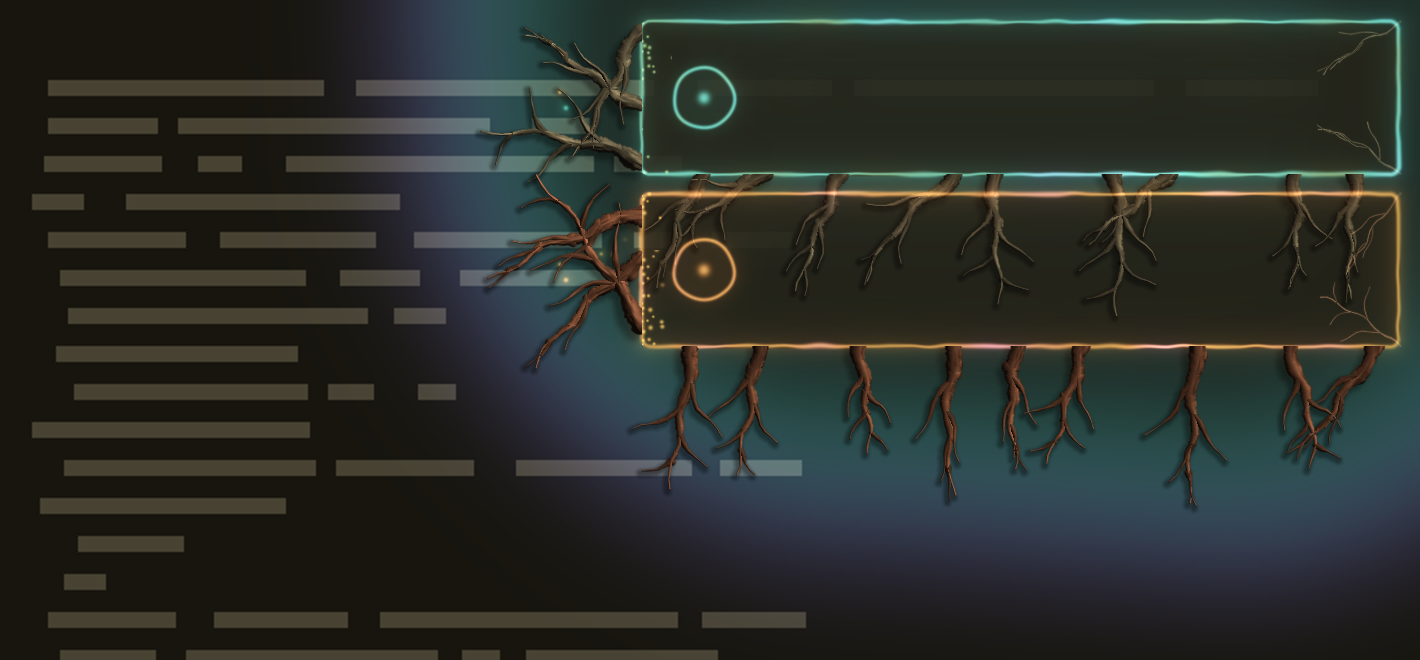
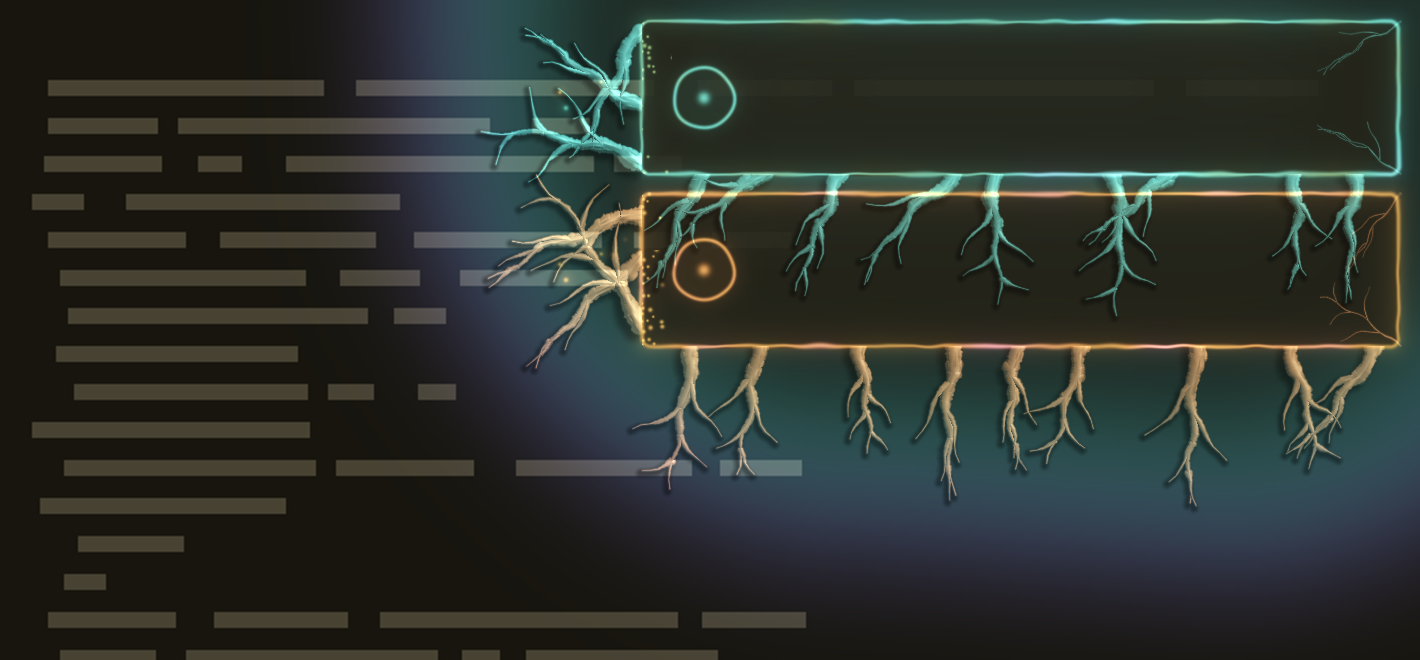
Growth: realistic texture and shape, but the roots glow again
The user liked the rough edge, grain, knots, droop and acute branching but wanted the roots to still be the glow. They are light again
(the toast's own colour, added, like the rim; output alpha is only the shadow), keeping all of the texture and shape work, with a more matte,
broader highlight that is less white so amber stays amber on a critical toast. Render only.

Claude-Session: https://claude.ai/code/session_01RawmEkvnbUV4A7X3Nfo38z

diff --git a/AGENTS.md b/AGENTS.md
@@ -314,14 +314,13 @@ has **alpha > 0 for the shadow only** (premultiplied: light in rgb, darkening in
 check and its countdown checks are stale, and the roots test's thresholds are untested on thicker roots.** Committed without running the tests
 at the user's request; fix them before releasing. The root radius is `(0.60 + 0.16 * scale) * thick` px at the base: `thick` is 5 for the roots (the user asked in steps: a little thicker, "at least twice as thick", "three times thicker now", read as three times the current, then, from a screenshot of the real shell, "a little thinner than that" and "more tapered") and 1 for the faint veins inside the card; the taper is `taper()`, a concave curve to 10% of the base, and the shoots start at 50% of the trunk's radius. **Look at the user's screenshots of the real shell, not only at the preview: the preview made the straight taper look fine and the screenshot showed stubby branches.** Roots are one per 24 px of the card's height on the left (3 to 6) and one per 40 px of its width below (4 to 14); `Tube` is a struct with a `key` (distance from the axis in radii) so overlapping pieces are shaded by the nearer-the-middle one; the shadow offset grows with the radius.
 
-**Realistic roots, branch `p2/growth-roots-real` (2026-10-31):** after the tapered tubes the user said they were "still not feeling it, they need to be
-more realistic". What read as unreal was the material, not the shape: glossy, smooth, glowing teal plastic. Changes in `toastgrowth.frag`: roots are drawn
-**opaque** in a bark colour (alpha = cover, rgb premultiplied, not added light: the tone-mapped additive light is mixed under them with
-`rgb*(1-cover) + rootRgb*cover`), with `tube()` taking an arc length and a per-root seed for a rough edge, fibre grain and mottling; `knob()` (necks and
-knots), `turn()` (heading: sine waves + jitter + a pull towards hanging down), acute shoots, swellings at shoot origins, paler tips. **Output alpha is now
-the roots' cover, so any test that assumes alpha is only a faint shadow, or that the roots are added light, is stale** (and the old countdown checks, and
-the roots thresholds, are still untested on this version). Lesson: when "realistic" is the ask, change the material and the irregularity
-before the geometry; added light can never look like a solid dark object.
+**Realistic roots (2026-10-31, branches `p2/growth-roots-real` then `p2/growth-roots-glow`):** after the tapered tubes the user said they were "still not feeling it, they
+need to be more realistic". I changed the material too (opaque bark-coloured roots, alpha = cover) and the user replied "it's fine to be more textured and shaped
+realistically but they should still be the glow". **The glow stayed the identity; texture and shape are what was wanted.** Final state in `toastgrowth.frag`: roots are
+added light in the toast's colour again (output alpha is only the shadow), with `tube()` taking an arc length and a per-root seed for a rough edge, fibre grain and
+mottling, plus `knob()` (necks and knots), `turn()` (heading: sine waves + jitter + a pull towards hanging down), acute shoots (0.62 rad) and swellings at shoot origins.
+The tests for the countdown line and the roots thresholds are still stale/untested on this version (the zero-alpha check is correct again). Lesson: a request for
+"realistic" is not a request to change the look's identity: change form and texture first, and keep the colour and the glow unless told otherwise.
 
 ## Conventions
 

diff --git a/docs/design/README.md b/docs/design/README.md
@@ -93,7 +93,13 @@ mock-up C, whose wavy outline and ragged strip read as glitches:
   settled on a trunk of 65% exponential (rate 3.5) and 35% gentle ease-out, with shoots starting from 16% of the life in steps of 16% and
   a more linear ease (power 1.5): gains of 34, 25, 13, 11, 8, 6 and 2 points per second (cumulative 34, 59, 72, 83, 91, 97 and 100).
   Fainter veins grow across the card from its right corners.
-  **Roots as solid, realistic bark** (the last step; the earlier tube look is described next): *"more realistic"* meant matte, uneven and earth-coloured, not glowing teal plastic. Each root is now drawn **opaque, in a real bark colour** (brown; rust for a critical toast, olive for a low one; a little of the toast's own colour mixed in) over what is behind it, instead of as added light, because added brown over a bright wallpaper cannot look brown. On top of the tube shading: a **rough edge** (the radius varies by noise along the length), **lengthwise grain** and **mottling** (noise that also tilts the surface's normal), **knots and necks** (a radius modulation that is continuous from step to step) and a thickening where a shoot leaves, a **less regular path** (heading jitter, and a pull towards hanging straight down, so roots droop), shoots at **acute angles** (about 35 degrees, not 50), a faint sheen only, and young tips paler rather than dimmer.
+  **Realistic texture and shape, still glowing** (the last step): "more realistic" was tried first as solid bark-coloured roots, drawn opaque over what is behind them; the user liked the
+  texture and shape but said they "should still be the glow", so the roots are light again (the toast's own colour, added, like the rim), keeping what made them
+  realistic: a **rough edge** (the radius varies by noise along the length), **lengthwise grain** and **mottling** (noise that also tilts the surface's normal, so
+  the glow varies along and across them), **knots and necks** (a radius modulation that is continuous from step to step) and a thickening where a shoot leaves, a
+  **less regular path** (heading jitter, and a pull towards hanging straight down, so roots droop), shoots at **acute angles** (about 35 degrees, not 50), and a
+  more matte, broader highlight. (Lesson: a request for realism is not a request to change the look's identity; ask which of material and form is meant if it
+  is not clear, or keep the identity and change the form first.)
   **Roots as lit 3D tubes** (after 0.5.0, `growth-roots-3d.png`): each segment is a round tube with a soft edge, five times as thick as the
   first lines at the base (asked for in steps: a little thicker, "at least twice as thick", "three times thicker now", then, from a screenshot of
   the real shell, "a little thinner than that" and "more tapered"; radius about 4.1 to 4.6 px at the base on the left and 3.9 to 4.3 below,

diff --git a/docs/runbooks/live-checklist.md b/docs/runbooks/live-checklist.md
@@ -195,9 +195,8 @@ flipping between the two with the same notifications. The design is `docs/design
 - [ ] the icon ring is very slightly irregular (it should read as organic, not as a lumpy circle)
 - [ ] **there is no countdown line** with this look: the bottom border is a plain border, and the roots are the timer (they are
       still growing until just before the toast goes)
-- [ ] the roots look **real**: solid, matte, bark-coloured (brown; rust for a critical toast), with a rough edge, grain, knots and
-      swellings, drooping a little, branching at acute angles, and paler at the young tips; they cover what is behind them rather than
-      glowing (say if the colour is wrong on your wallpaper, if they are too dark or too pale, or if they still look artificial and how)
+- [ ] the roots look **organic, not like smooth tubes** but are **still the glow** (the toast's own colour, as light): a rough edge, grain and mottling in
+      the glow, knots and swellings, a slight droop, branching at acute angles (say if the texture is too busy or too subtle, or the shape still looks artificial)
 - [ ] the roots are **thick at the base** (about five times the first version: about 8 px across), **thinning quickly** and ending in fine points, with slender side shoots (not stubby); fewer of them: about one per 24 px of height on the left, 40 px of width below) and look **3D** and smooth (no visible joins or beading): round tubes with a lit side towards the top right, a highlight and a soft shadow
       down and to the left on the card and the wallpaper (say if they are too thick, the shading is too strong or too weak, or the
       shadow looks dirty)
